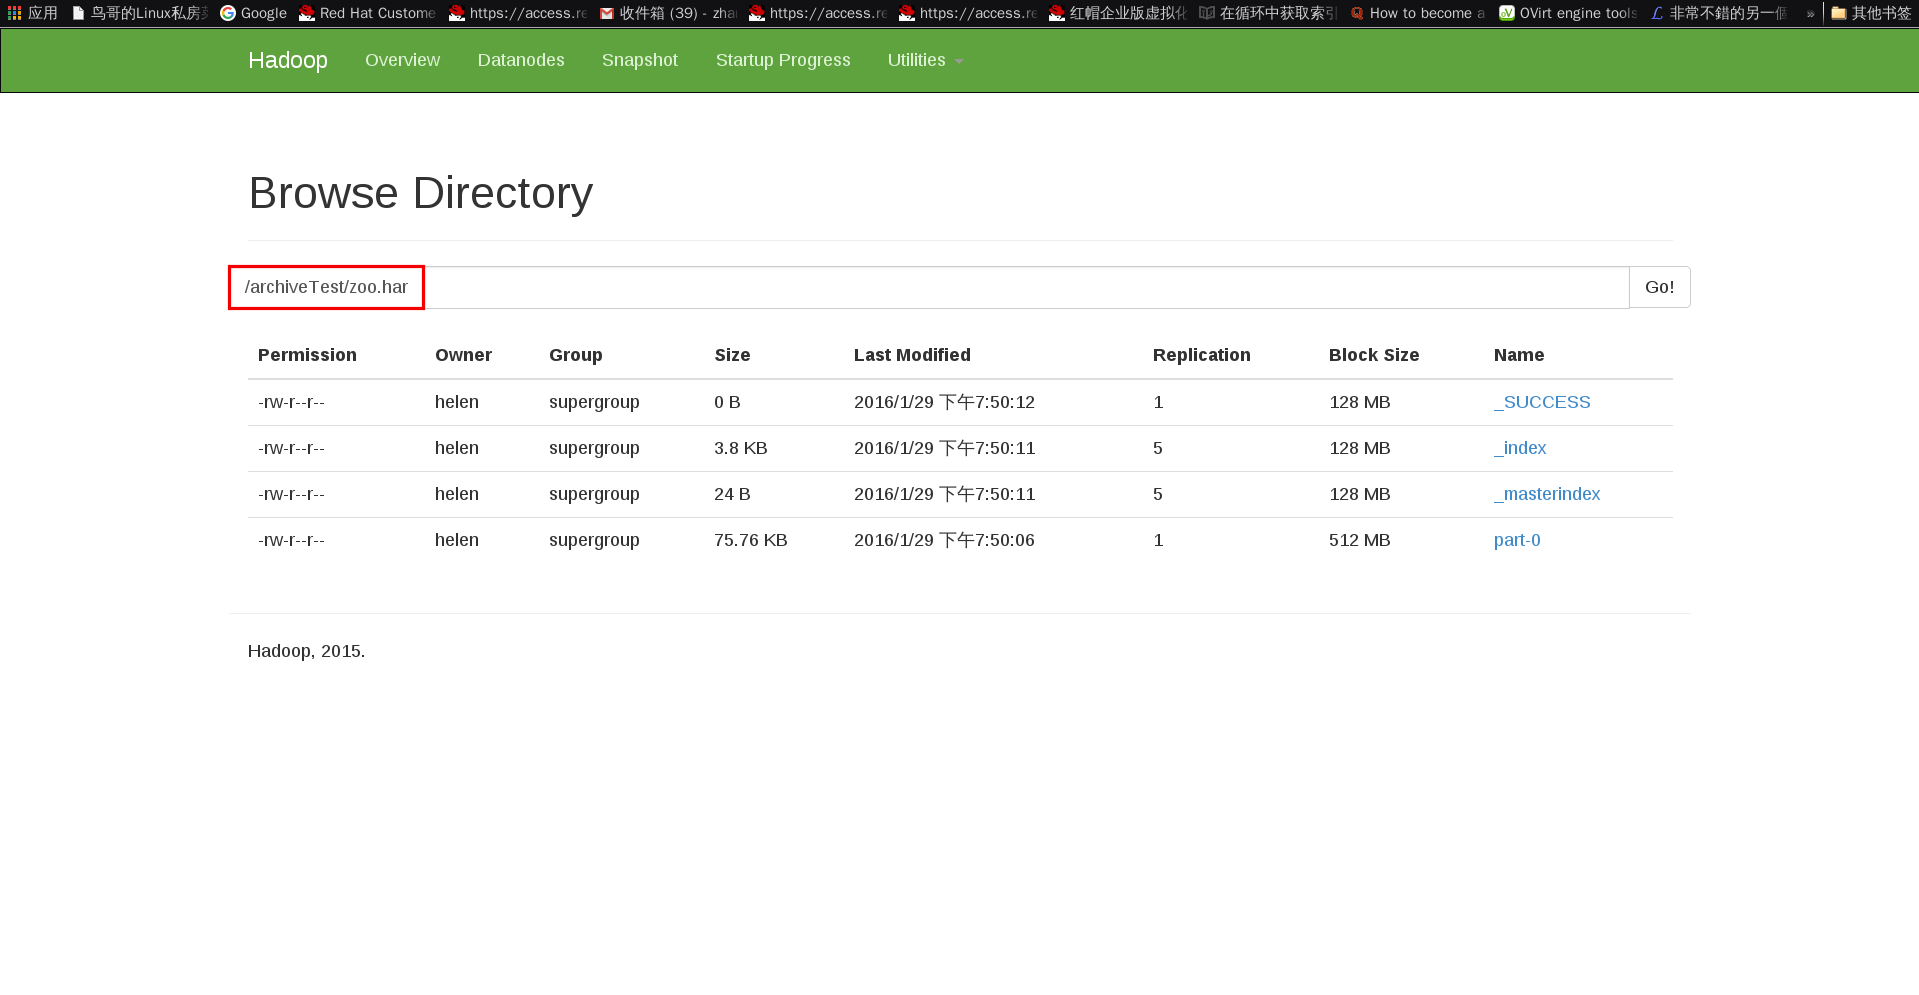
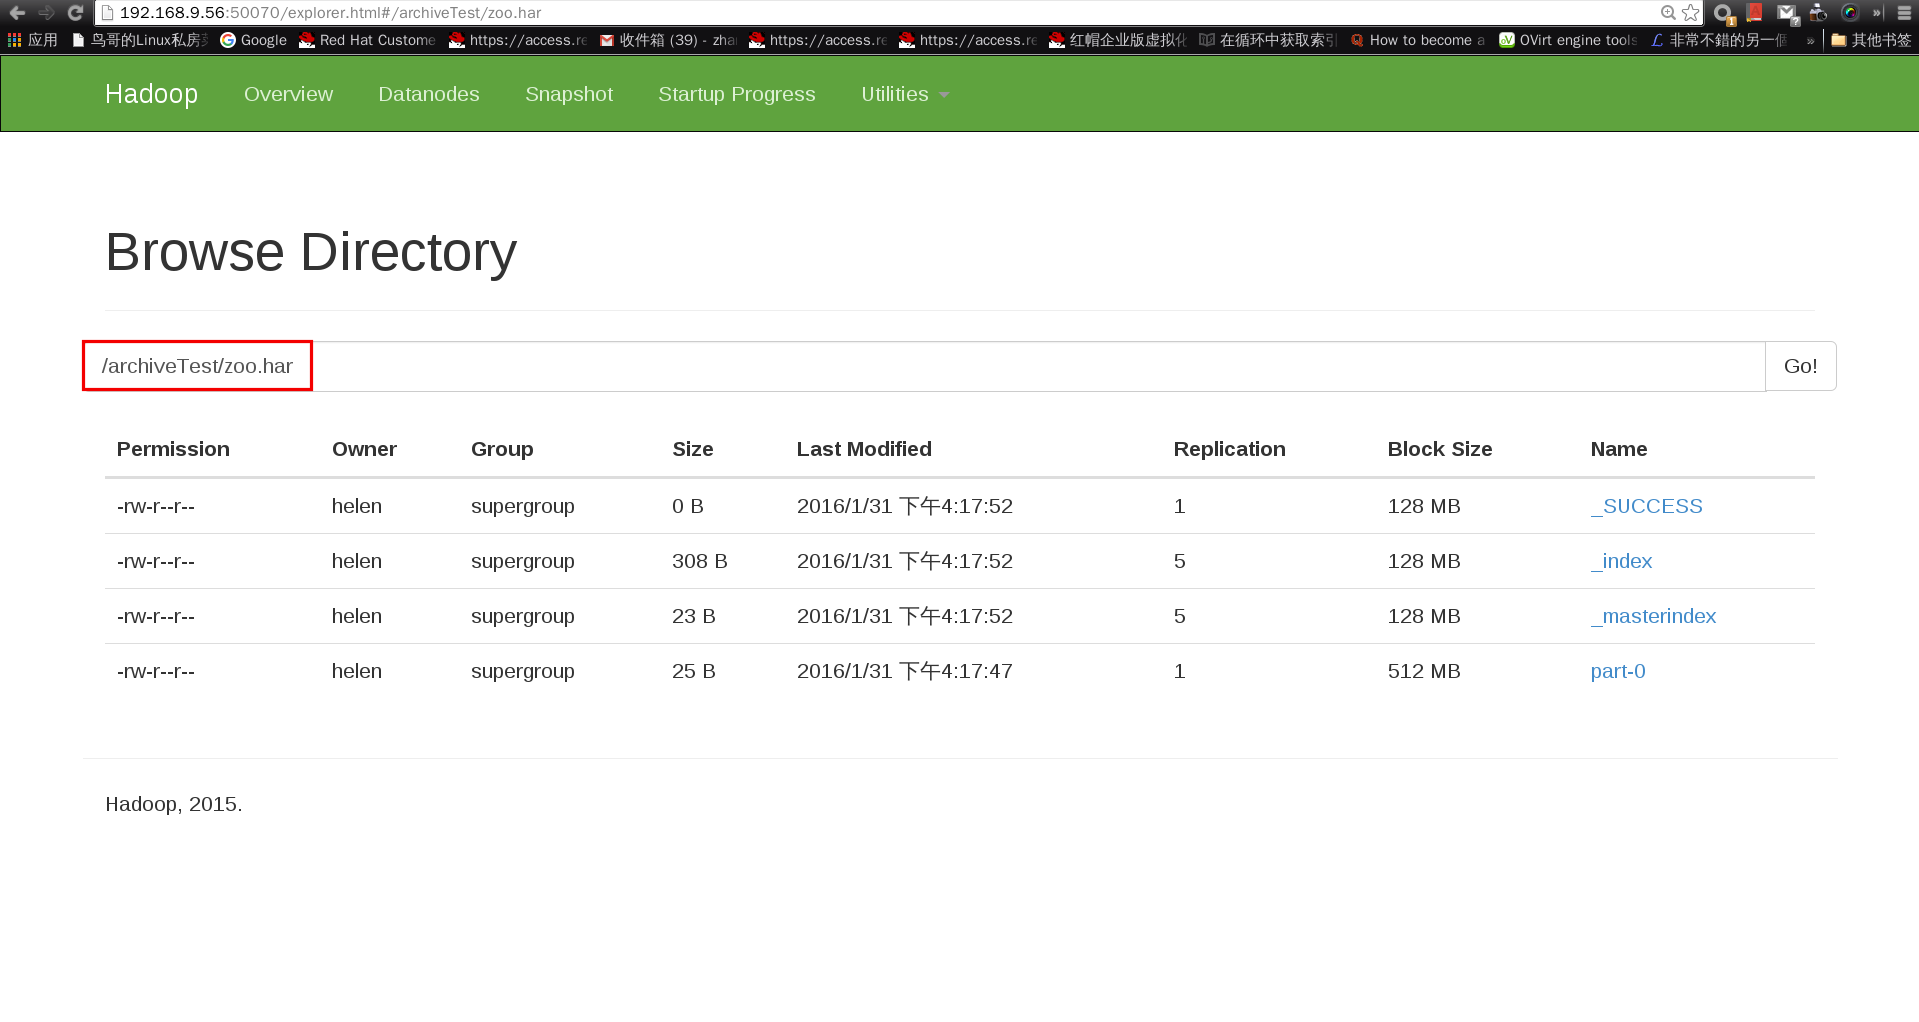
add new content

diff --git a/Hadoop Commands Guide.md b/Hadoop Commands Guide.md
@@ -22,82 +22,114 @@
     * replication factor：默认值是 10，详解：[http://docs.splunk.com/Documentation/Splunk/6.2.0/Indexer/Thereplicationfactor](http://docs.splunk.com/Documentation/Splunk/6.2.0/Indexer/Thereplicationfactor)
 
   * 举例：
-    ~~~ bash
-    [helen@yingyun hadoop-2.7.1]$ bin/hadoop archive -archiveName zoo.har -p /user/qiqi -r 5 /archiveTest
-    16/01/29 19:49:54 INFO client.RMProxy: Connecting to ResourceManager at /0.0.0.0:8032
-    16/01/29 19:49:56 INFO client.RMProxy: Connecting to ResourceManager at /0.0.0.0:8032
-    16/01/29 19:49:56 INFO client.RMProxy: Connecting to ResourceManager at /0.0.0.0:8032
-    16/01/29 19:49:57 INFO mapreduce.JobSubmitter: number of splits:1
-    16/01/29 19:49:58 INFO mapreduce.JobSubmitter: Submitting tokens for job: job_1453454924796_0014
-    16/01/29 19:49:58 INFO impl.YarnClientImpl: Submitted application application_1453454924796_0014
-    16/01/29 19:49:58 INFO mapreduce.Job: The url to track the job: http://localhost:8088/proxy/application_1453454924796_0014/
-    16/01/29 19:49:58 INFO mapreduce.Job: Running job: job_1453454924796_0014
-    16/01/29 19:50:03 INFO mapreduce.Job: Job job_1453454924796_0014 running in uber mode : false
-    16/01/29 19:50:03 INFO mapreduce.Job:  map 0% reduce 0%
-    16/01/29 19:50:08 INFO mapreduce.Job:  map 100% reduce 0%
-    16/01/29 19:50:13 INFO mapreduce.Job:  map 100% reduce 100%
-    16/01/29 19:50:15 INFO mapreduce.Job: Job job_1453454924796_0014 completed successfully
-    16/01/29 19:50:15 INFO mapreduce.Job: Counters: 49
-       File System Counters
-          FILE: Number of bytes read=4142
-          FILE: Number of bytes written=241807
-          FILE: Number of read operations=0
-          FILE: Number of large read operations=0
-          FILE: Number of write operations=0
-          HDFS: Number of bytes read=80814
-          HDFS: Number of bytes written=81498
-          HDFS: Number of read operations=87
-          HDFS: Number of large read operations=0
-          HDFS: Number of write operations=7
-       Job Counters 
-          Launched map tasks=1
-          Launched reduce tasks=1
-          Other local map tasks=1
-          Total time spent by all maps in occupied slots (ms)=2681
-          Total time spent by all reduces in occupied slots (ms)=3014
-          Total time spent by all map tasks (ms)=2681
-          Total time spent by all reduce tasks (ms)=3014
-          Total vcore-seconds taken by all map tasks=2681
-          Total vcore-seconds taken by all reduce tasks=3014
-          Total megabyte-seconds taken by all map tasks=2745344
-          Total megabyte-seconds taken by all reduce tasks=3086336
-       Map-Reduce Framework
-          Map input records=40
-          Map output records=40
-          Map output bytes=4054
-          Map output materialized bytes=4142
-          Input split bytes=117
-          Combine input records=0
-          Combine output records=0
-          Reduce input groups=40
-          Reduce shuffle bytes=4142
-          Reduce input records=40
-          Reduce output records=0
-          Spilled Records=80
-          Shuffled Maps =1
-          Failed Shuffles=0
-          Merged Map outputs=1
-          GC time elapsed (ms)=54
-          CPU time spent (ms)=1540
-          Physical memory (bytes) snapshot=440868864
-          Virtual memory (bytes) snapshot=2083385344
-          Total committed heap usage (bytes)=377487360
-       Shuffle Errors
-          BAD_ID=0
-          CONNECTION=0
-          IO_ERROR=0
-          WRONG_LENGTH=0
-          WRONG_MAP=0
-          WRONG_REDUCE=0
-       File Input Format Counters 
-          Bytes Read=3115
-       File Output Format Counters 
-          Bytes Written=0
-    ~~~
+    * 前期准备：
+      ~~~ bash
+      [helen@yingyun hadoop-2.7.1]$ echo Hello World >> file0
+      [helen@yingyun hadoop-2.7.1]$ echo Hello Hadoop >> file00
+      [helen@yingyun hadoop-2.7.1]$ bin/hdfs dfs -mkdir -p /user/qiqi/dir0 /user/qiqi/dir1
+      [helen@yingyun hadoop-2.7.1]$ bin/hdfs dfs -touchz /user/qiqi/file2
+      [helen@yingyun hadoop-2.7.1]$ bin/hdfs dfs -put file0 /user/qiqi/file0
+      [helen@yingyun hadoop-2.7.1]$ bin/hdfs dfs -put file00 /user/qiqi/dir0/file00
+
+    * 创建 hadoop archive      
+      ~~~ bash
+      [helen@yingyun hadoop-2.7.1]$ bin/hadoop archive -archiveName zoo.har -p /user/qiqi -r 5 /archiveTest
+      16/01/31 16:17:36 INFO client.RMProxy: Connecting to ResourceManager at /0.0.0.0:8032
+      16/01/31 16:17:37 INFO client.RMProxy: Connecting to ResourceManager at /0.0.0.0:8032
+      16/01/31 16:17:37 INFO client.RMProxy: Connecting to ResourceManager at /0.0.0.0:8032
+      16/01/31 16:17:38 INFO mapreduce.JobSubmitter: number of splits:1
+      16/01/31 16:17:38 INFO mapreduce.JobSubmitter: Submitting tokens for job: job_1453454924796_0015
+      16/01/31 16:17:38 INFO impl.YarnClientImpl: Submitted application application_1453454924796_0015
+      16/01/31 16:17:38 INFO mapreduce.Job: The url to track the job: http://localhost:8088/proxy/application_1453454924796_0015/
+      16/01/31 16:17:38 INFO mapreduce.Job: Running job: job_1453454924796_0015
+      16/01/31 16:17:43 INFO mapreduce.Job: Job job_1453454924796_0015 running in uber mode : false
+      16/01/31 16:17:43 INFO mapreduce.Job:  map 0% reduce 0%
+      16/01/31 16:17:48 INFO mapreduce.Job:  map 100% reduce 0%
+      16/01/31 16:17:54 INFO mapreduce.Job:  map 100% reduce 100%
+      16/01/31 16:17:55 INFO mapreduce.Job: Job job_1453454924796_0015 completed successfully
+      16/01/31 16:17:55 INFO mapreduce.Job: Counters: 49
+         File System Counters
+            FILE: Number of bytes read=344
+            FILE: Number of bytes written=234203
+            FILE: Number of read operations=0
+            FILE: Number of large read operations=0
+            FILE: Number of write operations=0
+            HDFS: Number of bytes read=524
+            HDFS: Number of bytes written=356
+            HDFS: Number of read operations=19
+            HDFS: Number of large read operations=0
+            HDFS: Number of write operations=7
+         Job Counters 
+            Launched map tasks=1
+            Launched reduce tasks=1
+            Other local map tasks=1
+            Total time spent by all maps in occupied slots (ms)=2725
+            Total time spent by all reduces in occupied slots (ms)=3120
+            Total time spent by all map tasks (ms)=2725
+            Total time spent by all reduce tasks (ms)=3120
+            Total vcore-seconds taken by all map tasks=2725
+            Total vcore-seconds taken by all reduce tasks=3120
+            Total megabyte-seconds taken by all map tasks=2790400
+            Total megabyte-seconds taken by all reduce tasks=3194880
+         Map-Reduce Framework
+            Map input records=5
+            Map output records=5
+            Map output bytes=328
+            Map output materialized bytes=344
+            Input split bytes=117
+            Combine input records=0
+            Combine output records=0
+            Reduce input groups=5
+            Reduce shuffle bytes=344
+            Reduce input records=5
+            Reduce output records=0
+            Spilled Records=10
+            Shuffled Maps =1
+            Failed Shuffles=0
+            Merged Map outputs=1
+            GC time elapsed (ms)=58
+            CPU time spent (ms)=1410
+            Physical memory (bytes) snapshot=429936640
+            Virtual memory (bytes) snapshot=2079178752
+            Total committed heap usage (bytes)=377487360
+         Shuffle Errors
+            BAD_ID=0
+            CONNECTION=0
+            IO_ERROR=0
+            WRONG_LENGTH=0
+            WRONG_MAP=0
+            WRONG_REDUCE=0
+         File Input Format Counters 
+            Bytes Read=382
+         File Output Format Counters 
+            Bytes Written=0
+      ~~~
     
-    ![archive0.png](./images/archive0.png)
+    * 浏览 NameNode 网页
+      ![archive0.png](./images/archive0.png)
+   
+    * 将分布式文件系统中的 `/archiveTest/zoo.har` 目录拷贝到本机的文件系统中，便于查看目录中的内容
+      ~~~ bash
+      [helen@yingyun hadoop-2.7.1]$ bin/hdfs dfs -get /archiveTest/zoo.har ./tmp
+      16/01/31 16:23:02 WARN hdfs.DFSClient: DFSInputStream has been closed already
+      16/01/31 16:23:02 WARN hdfs.DFSClient: DFSInputStream has been closed already
+      16/01/31 16:23:02 WARN hdfs.DFSClient: DFSInputStream has been closed already
+      16/01/31 16:23:02 WARN hdfs.DFSClient: DFSInputStream has been closed already
+      [helen@yingyun hadoop-2.7.1]$ cat tmp/*
+      %2F dir 1454225682848+493+helen+supergroup 0 0 dir0 dir1 file0 
+      %2Fdir0 dir 1454227957903+493+helen+supergroup 0 0 file00 
+      %2Fdir1 dir 1454211134238+493+helen+supergroup 0 0 
+      %2Fdir0%2Ffile00 file part-0 0 13 1454227957863+420+helen+supergroup 
+      %2Ffile0 file part-0 13 12 1454222710628+420+helen+supergroup 
+      3 
+      0 1443004261 0 308 
+      Hello Hadoop
+      Hello World
+      ~~~
+
   * 一些重点&疑问：
     1. Note that this is a Map/Reduce job that creates the archives. You would need a map reduce cluster to run this. 
+    2. 
     
     
 ### checknative
